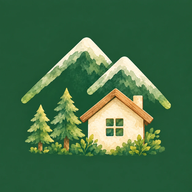
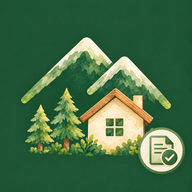
管理者ビューア: 管理者用のアプリアイコンに差し替え

Changed region(s): [[0.7188, 0.6562, 0.9688, 0.9062]]

diff --git a/sango-admin/service-worker.js b/sango-admin/service-worker.js
@@ -1,7 +1,7 @@
 // キャッシュ対象を変更したら CACHE_VERSION を上げること
-const CACHE_VERSION = 1;
+const CACHE_VERSION = 2;
 const CACHE_NAME = `sango-admin-v${CACHE_VERSION}`;
-const APP_SHELL = ['./', 'index.html', 'app.js?v=1', 'demo.js?v=1', 'style.css?v=1', 'manifest.webmanifest', 'icon-96.png', 'icon-180.png', 'icon-192.png', 'icon-512.png'];
+const APP_SHELL = ['./', 'index.html', 'app.js?v=1', 'demo.js?v=1', 'style.css?v=1', 'manifest.webmanifest', 'icon-96.png?v=2', 'icon-180.png?v=2', 'icon-192.png?v=2', 'icon-512.png?v=2'];
 // 症例データ（社内データ）はキャッシュしない。PCの Box Drive フォルダから毎回読む。絵(art/)は初回表示時に取得してキャッシュする
 
 self.addEventListener('install', (event) => {

diff --git a/sango-admin/index.html b/sango-admin/index.html
@@ -6,8 +6,8 @@
 <meta name="theme-color" content="#244f37">
 <title>山郷サポート 管理者ビューア</title>
 <link rel="manifest" href="manifest.webmanifest">
-<link rel="icon" type="image/png" sizes="96x96" href="icon-96.png">
-<link rel="apple-touch-icon" href="icon-180.png">
+<link rel="icon" type="image/png" sizes="96x96" href="icon-96.png?v=2">
+<link rel="apple-touch-icon" href="icon-180.png?v=2">
 <link rel="stylesheet" href="style.css?v=1">
 </head>
 <body>
